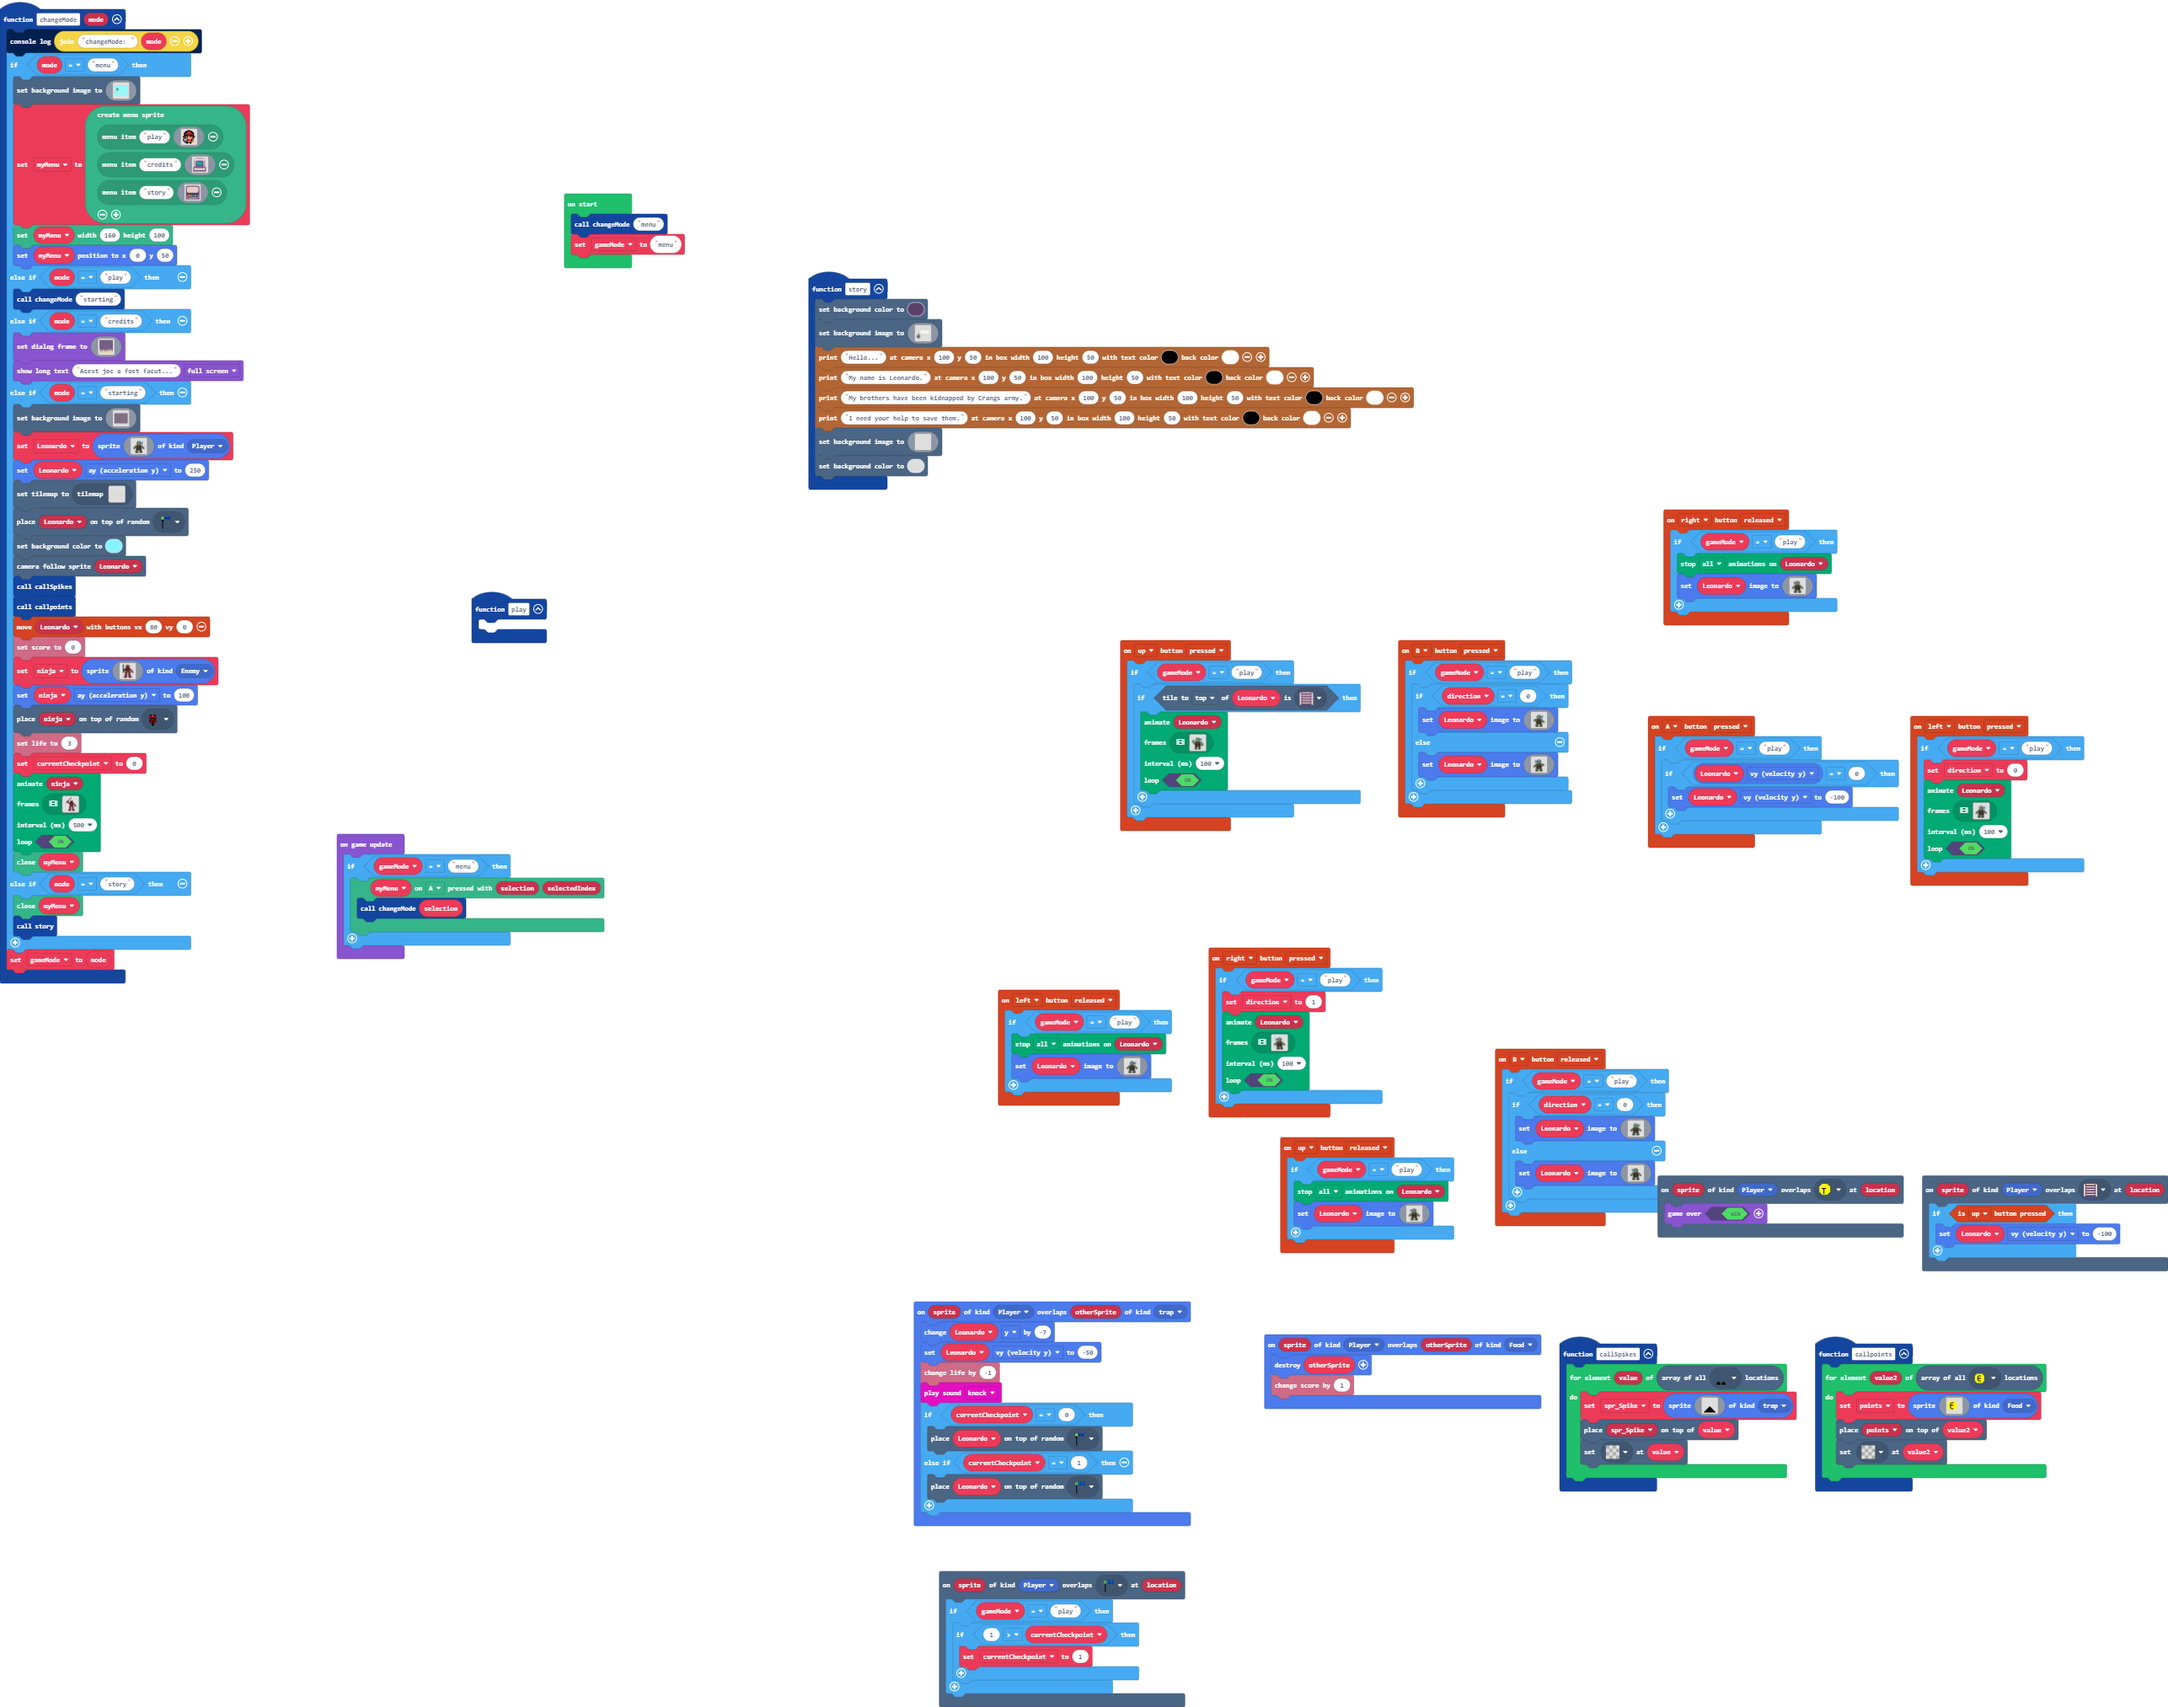
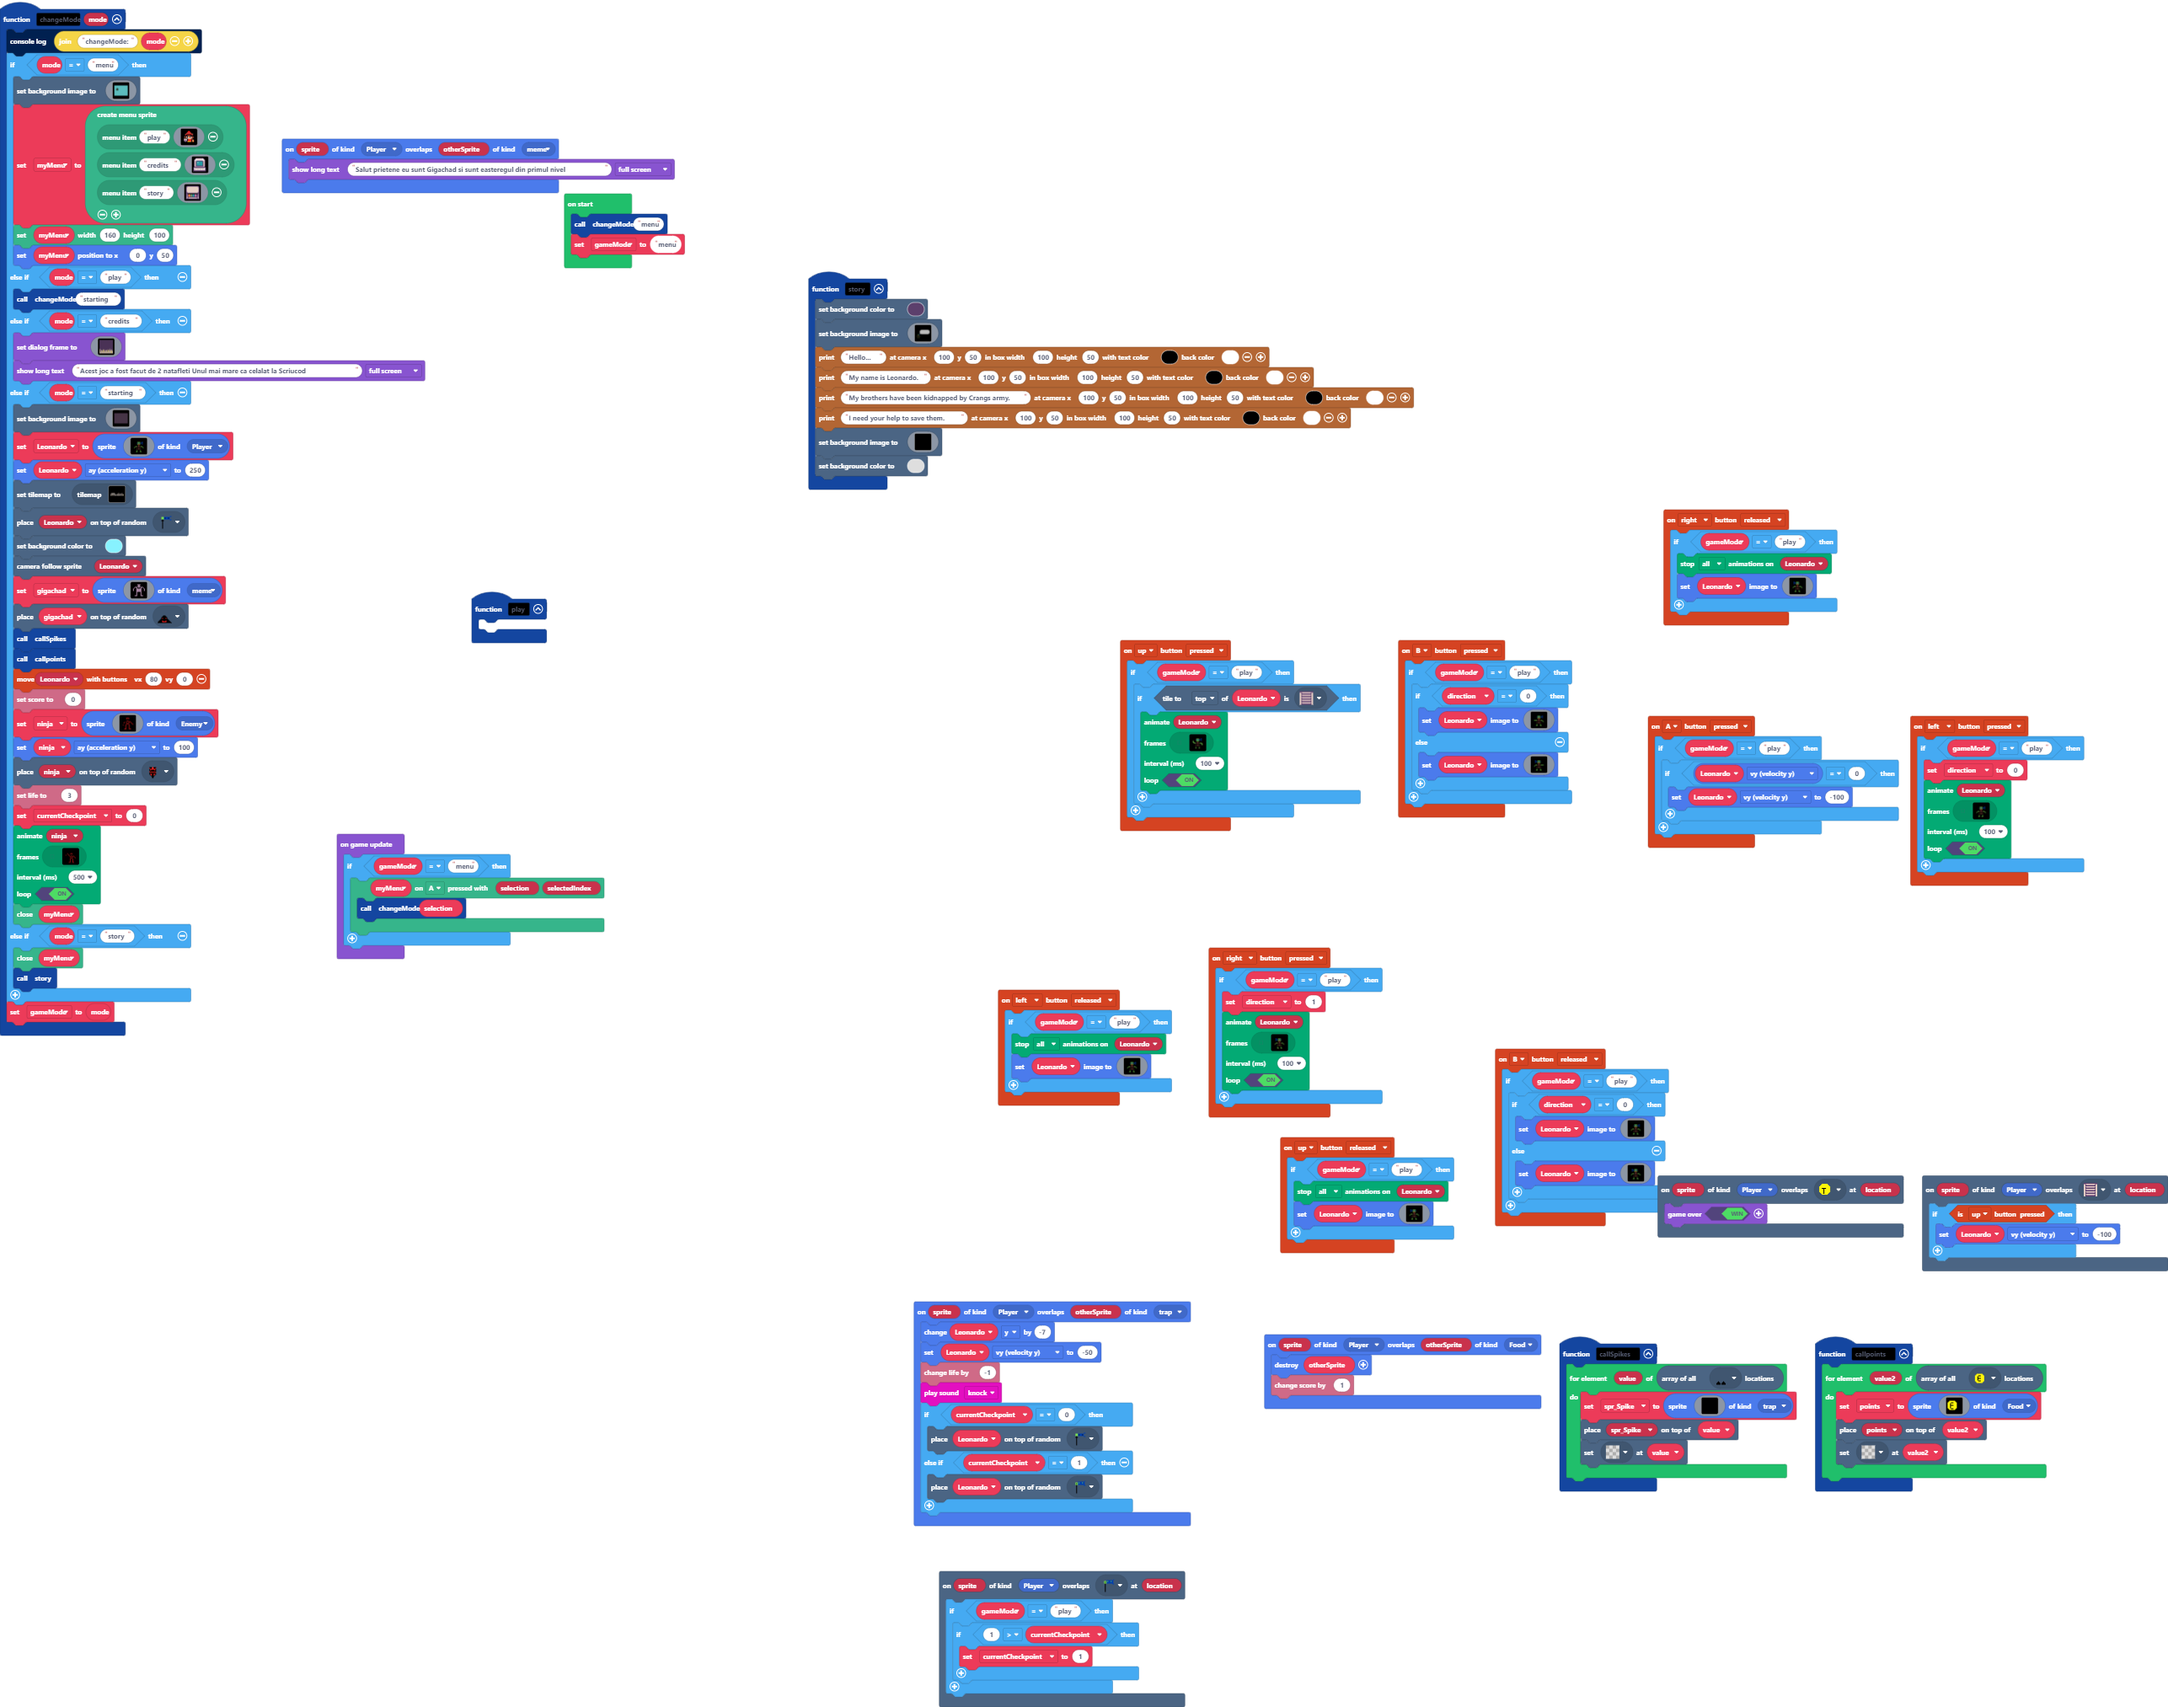
gigachad

diff --git a/tilemap.g.ts b/tilemap.g.ts
@@ -22,6 +22,16 @@ namespace myTiles {
     export const tile2 = image.ofBuffer(hex``);
     //% fixedInstance jres blockIdentity=images._tile
     export const tile3 = image.ofBuffer(hex``);
+    //% fixedInstance jres blockIdentity=images._tile
+    export const tile9 = image.ofBuffer(hex``);
+    //% fixedInstance jres blockIdentity=images._tile
+    export const tile12 = image.ofBuffer(hex``);
+    //% fixedInstance jres blockIdentity=images._tile
+    export const tile14 = image.ofBuffer(hex``);
+    //% fixedInstance jres blockIdentity=images._tile
+    export const tile13 = image.ofBuffer(hex``);
+    //% fixedInstance jres blockIdentity=images._tile
+    export const tile15 = image.ofBuffer(hex``);
 
     helpers._registerFactory("tilemap", function(name: string) {
         switch(helpers.stringTrim(name)) {
@@ -672,33 +682,33 @@ namespace myTiles {
 . . . . . . . . . . . . . . . . 
 `, [myTiles.transparency16], TileScale.Sixteen);
             case "level1":
[2 lines of base64/hex data omitted]
 ....................................................................................................
 ....................................................................................................
 ....................................................................................................
 ....................................................................................................
+...........22.....22....22....22..............................2........................2............
+...........222...2222..2222..2222............................222.......................2............
+...........222...2222..2222..2222...........................2.2.2......................2............
+...........222...2222..2222..2222..........................2222222...................22222..........
+.........2222222222222222222222222..........................2.2.2....................2.2.2..........
+........222222222222222222222222222.........................22222......2222.222......2.2.2..........
+.......22222222222222222222222222222........................2.2.2......2......2......22222..........
+.2.222222222222222222222222222222222................2222....22222...........222.....22.2.22.........
+.2.......2..2..22222..2222..........................2..2....2.2.2.............2................22.22
+.2.......2..2..2...2................................2..2....22222.....222222222...............2.....
+.2.......2222222...........22222222.................2..2....22222....2.2..22..2.....2222222...222.22
+.2.......2..2..2.............2..2.2.22222222222222222222.2.........22..22222222.....2..2..2...222.22
+.2222....2..2..22.222222222..2..2.2.2..2..2..2...2..2..2.2.........2...2..22..2.....2222222...222.22
+.22222..222222222.22..2222222222222.2..2..2..2...2222222.22222222222...22222222.....2..2..2...222.22
+.2................22..22..2..2..2.2.2222222222...2..2..2.2..2.2.2..2...2..22..2.....2222222...222.22
+.2................222222..2..2..2.2.2..2..2..2...2222222.22222222222...22222222....22..2..22..222.22
+.2..222222222222222.....22222222222.2..2..2..2...2..2..2.2222.2.2222...2..22..2....222222222..222.22
+.2222...............................2222222222...2..2..2.2..22222..2...22222222....2...2...2..222.22
+.2222...............22..............2..2..2..2...2222222.2222.2.2222...2..22..2....222222222..222.22
+.2222222222222222222..222222222222222222222222...2..2..2.2..22222..2...22222222....2...2...2..222.22
 ....................................................................................................
-..........22.....22....22....22..............................2........................2.............
-..........222...2222..2222..2222............................222.......................2.............
-..........222...2222..2222..2222...........................2.2.2......................2.............
-..........222...2222..2222..2222..........................2222222...................22222...........
-........2222222222222222222222222..........................2.2.2....................2.2.2...........
-.......222222222222222222222222222.........................22222......2222.222......2.2.2...........
-......22222222222222222222222222222........................2.2.2......2......2......22222...........
-2.222222222222222222222222222222222................2222....22222...........222.....22.2.22..........
-2.......2..2..22222..2222..........................2..2....2.2.2.............2................22.22.
-2.......2..2..2...2................................2..2....22222.....222222222...............2.....2
-2.......2222222...........22222222.................2..2....22222....2.2..22..2.....2222222...222.222
-2.......2..2..2.............2..2.2.22222222222222222222.2.........22..22222222.....2..2..2...222.222
-2222....2..2..22.222222222..2..2.2.2..2..2..2...2..2..2.2.........2...2..22..2.....2222222...222.222
-2222222222222222.22..2222222222222.2..2..2..2...2222222.22222222222...22222222.....2..2..2...222.222
-2................22..22..2..2..2.2.2222222222...2..2..2.2..2.2.2..2...2..22..2.....2222222...222.222
-2................222222..2..2..2.2.2..2..2..2...2222222.22222222222...22222222....22..2..22..222.222
-2..222222222222222.....22222222222.2..2..2..2...2..2..2.2222.2.2222...2..22..2....222222222..222.222
-2222....2..........................2222222222...2..2..2.2..22222..2...22222222....2...2...2..222.222
-2222....2..........22..............2..2..2..2...2222222.2222.2.2222...2..22..2....222222222..222.222
-2222222222222222222..222222222222222222222222...2..2..2.2..22222..2...22222222....2...2...2..222.222
-`, [myTiles.transparency16,sprites.builtin.brick,myTiles.tile1,myTiles.tile2,myTiles.tile3,sprites.dungeon.stairSouth,sprites.dungeon.stairLadder,myTiles.tile4,myTiles.tile10,myTiles.tile8,myTiles.tile11], TileScale.Sixteen);
+`, [myTiles.transparency16,sprites.builtin.brick,myTiles.tile1,myTiles.tile2,myTiles.tile3,sprites.dungeon.stairSouth,sprites.dungeon.stairLadder,myTiles.tile4,myTiles.tile10,myTiles.tile8,myTiles.tile11,sprites.dungeon.chestClosed,myTiles.tile15], TileScale.Sixteen);
         }
         return null;
     })
@@ -726,6 +736,16 @@ namespace myTiles {
             case "tile2":return tile2;
             case "myTile1":
             case "tile3":return tile3;
+            case "myTile7":
+            case "tile9":return tile9;
+            case "myTile10":
+            case "tile12":return tile12;
+            case "myTile12":
+            case "tile14":return tile14;
+            case "myTile11":
+            case "tile13":return tile13;
+            case "myTile13":
+            case "tile15":return tile15;
         }
         return null;
     })

diff --git a/main.ts b/main.ts
@@ -1,5 +1,6 @@
 namespace SpriteKind {
     export const trap = SpriteKind.create()
+    export const meme = SpriteKind.create()
 }
 scene.onOverlapTile(SpriteKind.Player, assets.tile`myTile0`, function (sprite, location) {
     if (gameMode == "play") {
@@ -85,6 +86,9 @@ controller.up.onEvent(ControllerButtonEvent.Pressed, function () {
 })
 scene.onOverlapTile(SpriteKind.Player, assets.tile`myTile6`, function (sprite, location) {
     game.over(true)
+})
+sprites.onOverlap(SpriteKind.Player, SpriteKind.meme, function (sprite, otherSprite) {
+    game.showLongText("Salut prietene eu sunt Gigachad si sunt easteregul din primul nivel", DialogLayout.Full)
 })
 controller.B.onEvent(ControllerButtonEvent.Pressed, function () {
     if (gameMode == "play") {
@@ -912,7 +916,7 @@ function changeMode (mode: string) {
             dddddddddddddddddddddddddddddddddddddddddddddddd
             dddddddddddddddddddddddddddddddddddddddddddddddd
             `)
-        game.showLongText("Acest joc a fost facut...", DialogLayout.Full)
+        game.showLongText("Acest joc a fost facut de 2 natafleti Unul mai mare ca celalat la Scriucod", DialogLayout.Full)
     } else if (mode == "starting") {
         scene.setBackgroundImage(img`
             cccccccccccccccccccccccccccccccccccccccccccccccccccccccccccccccccccccccccccccccccccccccccccccccccccccccccccccccccccccccccccccccccccccccccccccccccccccccccccccccc
@@ -1063,6 +1067,25 @@ function changeMode (mode: string) {
         tiles.placeOnRandomTile(Leonardo, assets.tile`myTile`)
         scene.setBackgroundColor(9)
         scene.cameraFollowSprite(Leonardo)
+        gigachad = sprites.create(img`
+            . . . . . f f f f f f . . . . . 
+            . . . . . f b b b b f . . . . . 
+            . . . . . f f b b f f . . . . . 
+            . . . f f f b b b b f f f . . . 
+            . . f b b b f b b f b b b f . . 
+            . f b f f b f f f f b f f b f . 
+            f b f . f b b b b b b f . f b f 
+            f b f . f b b b b b b f . f b f 
+            f b f . f b b b b b b f . f b f 
+            . f . . f b b b b b b f . . f . 
+            . . . . f b f f f f b f . . . . 
+            . . . . f b f . . f b f . . . . 
+            . . . . f b f . . f b f . . . . 
+            . . f f f b f . . f b f f f . . 
+            . . f b b b f . . f b b b f . . 
+            . . f f f f f . . f f f f f . . 
+            `, SpriteKind.meme)
+        tiles.placeOnRandomTile(gigachad, assets.tile`myTile13`)
         callSpikes()
         callpoints()
         controller.moveSprite(Leonardo, 80, 0)
@@ -1189,6 +1212,7 @@ scene.onOverlapTile(SpriteKind.Player, sprites.dungeon.stairSouth, function (spr
 })
 let points: Sprite = null
 let ninja: Sprite = null
+let gigachad: Sprite = null
 let myMenu: miniMenu.MenuSprite = null
 let spr_Spike: Sprite = null
 let direction = 0
